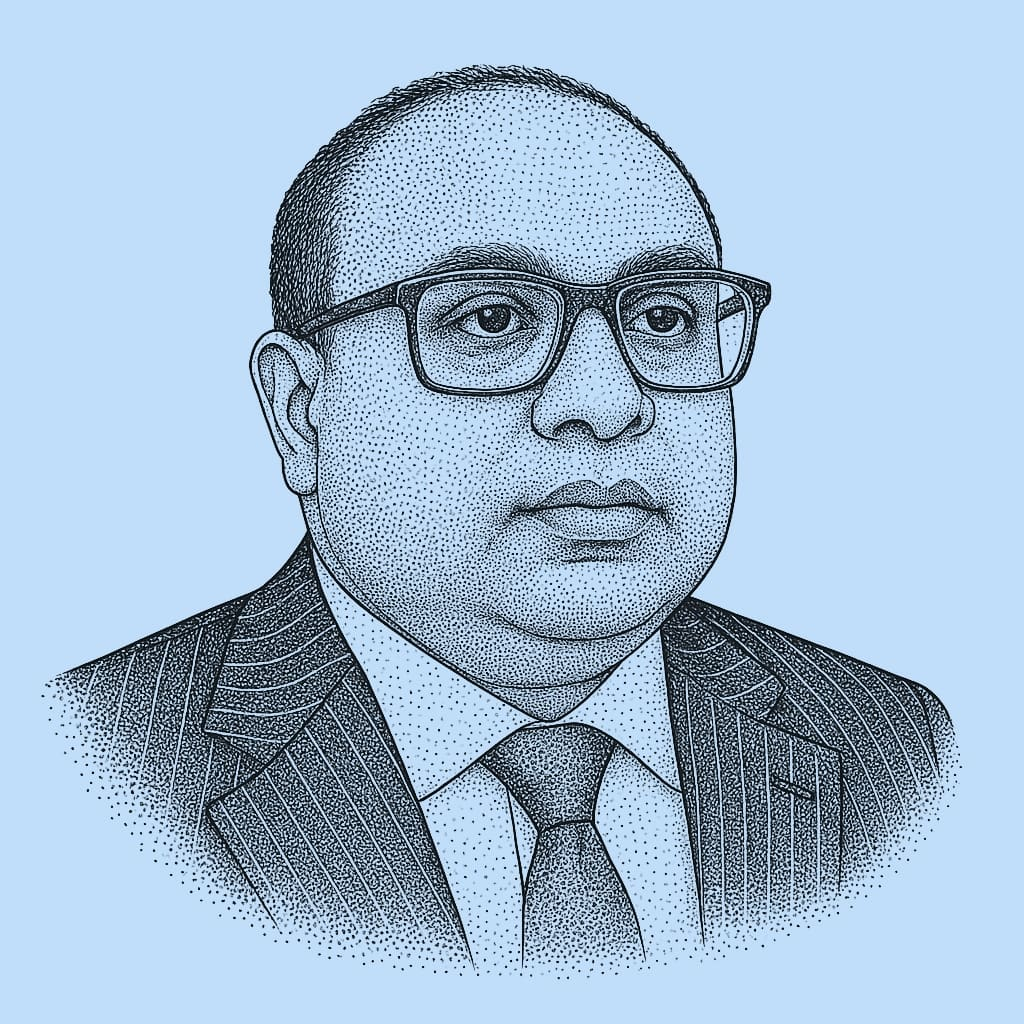
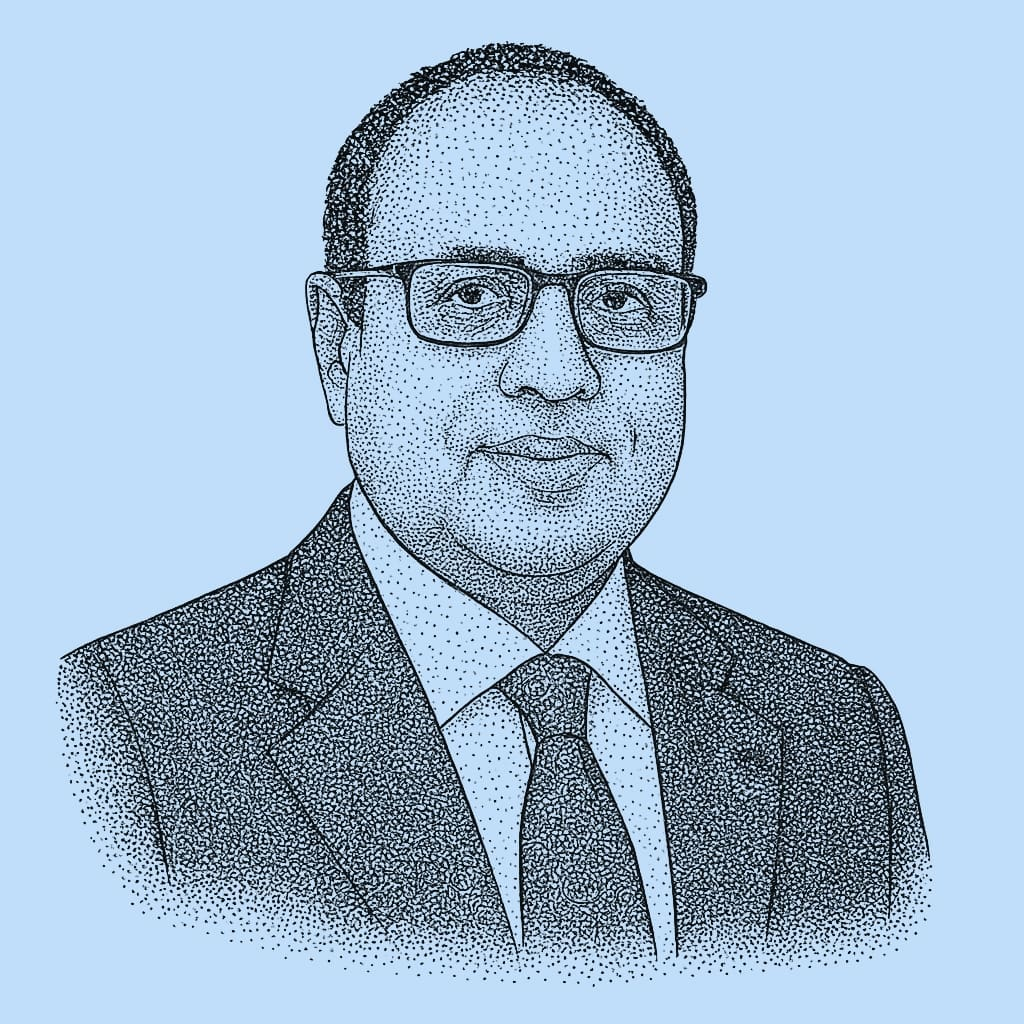
feat: add ai page #73

diff --git a/apps/web/src/ui/ai/intro.tsx b/apps/web/src/ui/ai/intro.tsx
@@ -1,78 +1,105 @@
 import { Icons } from '@pbn/ui/icons';
 
-export default function Intro() {
+export function Intro() {
   return (
     <div id="intro" className="px-6 py-32 lg:px-8">
       <div className="mx-auto max-w-3xl text-base/7 text-muted-foreground">
-        <p className="text-base/7 font-semibold text-alternate">For Bank Boards & CEOs</p>
         <h2 className="mt-2 text-pretty text-4xl font-semibold tracking-tight text-foreground sm:text-5xl">
-          Pakistan&apos;s Banking Leaders Face the AI Test
+          Convert AI spends into board-ready returns within 18 months
         </h2>
-        <p className="mt-6 text-xl/8">
-          AI will decide which banks lead and which follow. Executive AI Stewardship helps boards
-          turn regulation, compliance, and transformation pressure into measurable ROI before the
-          window closes.
+        <p className="mt-6 text-xl/8 text-muted-foreground">
+          You approved AI budgets. Hired consultants. Launched pilots. Your board still asks when
+          they will see returns. The State Bank of Pakistan demands governance frameworks you
+          continue to work on. Emerging competitors report AI wins while your initiatives stall in
+          proof-of-concept. The gap between spending and results widens each quarter.
         </p>
 
-        <div className="mt-10 max-w-2xl text-gray-600 dark:text-gray-400">
+        <div className="mt-10 max-w-2xl">
           <p>
-            AI will decide which banks lead and which follow. Executive AI Stewardship helps boards
-            turn regulation, compliance, and transformation pressure into measurable ROI before the
-            window closes.
+            Most banks fail at AI because they treat it as a technology problem. It is an execution
+            problem. Our principals have led banking transformations at global scale. We&apos;ve
+            driven technology enablement at organizations serving billions of users worldwide. We
+            know what boards demand and we know how to deliver it.
+          </p>
+          <p className="mt-8">
+            The difference between banks that generate measurable AI returns and banks that waste
+            millions comes down to systematic capability building. Each stage must deliver
+            documented ROI. Each investment must prove itself before the next. Each outcome must be
+            something you can report to your board with specific numbers.
           </p>
 
-          <ul role="list" className="mt-8 max-w-2xl space-y-8 text-gray-600 dark:text-gray-400">
+          <h2 className="mt-16 text-pretty text-3xl font-semibold tracking-tight text-foreground">
+            Four clear stages with compounding returns
+          </h2>
+
+          <ul role="list" className="mt-8 max-w-2xl space-y-8">
             <li className="flex gap-x-3">
-              <Icons.Check
-                aria-hidden="true"
-                className="mt-1 size-5 flex-none text-indigo-600 dark:text-indigo-400"
-              />
+              <Icons.Check aria-hidden="true" className="mt-1 size-5 flex-none text-alternate" />
               <span>
-                <strong className="font-semibold text-gray-900 dark:text-white">Awareness.</strong>{' '}
-                Board-level alignment on AI’s role in regulation, profitability, and risk control.
-              </span>
-            </li>
-            <li className="flex gap-x-3">
-              <Icons.Check
-                aria-hidden="true"
-                className="mt-1 size-5 flex-none text-indigo-600 dark:text-indigo-400"
-              />
-              <span>
-                <strong className="font-semibold text-gray-900 dark:text-white">Readiness.</strong>{' '}
-                Assess data, culture, and leadership capacity for AI adoption.
-              </span>
-            </li>
-            <li className="flex gap-x-3">
-              <Icons.Check
-                aria-hidden="true"
-                className="mt-1 size-5 flex-none text-indigo-600 dark:text-indigo-400"
-              />
-              <span>
-                <strong className="font-semibold text-gray-900 dark:text-white">Enablement.</strong>{' '}
-                Build execution muscle—teams, processes, and governance that deliver at scale.
-              </span>
-            </li>
-            <li className="flex gap-x-3">
-              <Icons.Check
-                aria-hidden="true"
-                className="mt-1 size-5 flex-none text-indigo-600 dark:text-indigo-400"
-              />
-              <span>
-                <strong className="font-semibold text-gray-900 dark:text-white">
-                  Transformation.
+                <strong className="font-semibold text-foreground">
+                  Awareness delivers immediate productivity.
                 </strong>{' '}
-                Embed AI into the bank’s operating system for lasting performance advantage.
+                Enterprise AI literacy lifts global performance from day one. Your talented people
+                work 50 percent faster. Your underperformers become more visible. You prove AI
+                generates value before investing millions in infrastructure. Minimal investment,
+                immediate and measurable returns.
+              </span>
+            </li>
+            <li className="flex gap-x-3">
+              <Icons.Check aria-hidden="true" className="mt-1 size-5 flex-none text-alternate" />
+              <span>
+                <strong className="font-semibold text-foreground">
+                  Readiness prevents wasted investment.
+                </strong>{' '}
+                Audit your data, governance, processes, systems, and culture before spending
+                heavily. Identify quick wins that deliver three to five times ROI within months.
+                Build compliance frameworks for the enterprise that satisfy regulators. Stop
+                throwing money at pilots that never scale.
+              </span>
+            </li>
+            <li className="flex gap-x-3">
+              <Icons.Check aria-hidden="true" className="mt-1 size-5 flex-none text-alternate" />
+              <span>
+                <strong className="font-semibold text-foreground">
+                  Enablement cuts costs and defends share.
+                </strong>{' '}
+                Deploy frontier AI models that enable customer service, reduce fraud losses, and
+                accelerate credit decisions. Each system generates documented savings. Each
+                implementation funds the next. Your board sees financial statement line items, not
+                promises.
+              </span>
+            </li>
+            <li className="flex gap-x-3">
+              <Icons.Check aria-hidden="true" className="mt-1 size-5 flex-none text-alternate" />
+              <span>
+                <strong className="font-semibold text-foreground">
+                  Transformation creates competitive distance.
+                </strong>{' '}
+                Rewire operations with AI that deliver billions in economic value over just a few
+                years. Build advantages competitors cannot replicate. Prepare for the next wave of
+                AI innovation so your bank leads the market instead of following it.
               </span>
             </li>
           </ul>
 
-          <h2 className="mt-16 text-pretty text-3xl font-semibold tracking-tight text-gray-900 dark:text-white">
-            The 30-Second Pitch
+          <h2 className="mt-16 text-pretty text-3xl font-semibold tracking-tight text-foreground">
+            Concrete, capitalized returns
           </h2>
           <p className="mt-6">
-            Pakistani banks have capital, vision, and urgency—but lack institutional execution. AI
-            Stewardship gives boards a structured path to lead responsibly, comply early, and
-            outperform peers on ROI before regulation and competition close the window.
+            Most consultants sell you studies. We deliver returns. Every investment must generate
+            three to ten time returns within 18 months or we have failed. We stay through
+            implementation because reports do not create value. Working systems do.
+          </p>
+          <p className="mt-6">
+            We measure results rigorously. We track specific cost reductions, productivity gains,
+            and revenue improvements. We build capability inside your institution so the returns
+            compound after we leave. We make certain you can walk into your next board meeting with
+            numbers that prove AI works.
+          </p>
+          <p className="mt-6">
+            The banks moving now will report measurable AI returns within 18 months. Those that wait
+            will explain to their boards why they fell behind. The window closes each quarter your
+            competitors move faster.
           </p>
         </div>
       </div>

diff --git a/apps/web/src/ui/ai/team.tsx b/apps/web/src/ui/ai/team.tsx
@@ -1,29 +1,32 @@
+import Image from 'next/image';
+
 const people = [
   {
     name: 'Rehan Shaikh',
     role: 'CEO',
     imageSrc: '/rehan.jpg',
-    bio: 'Ultricies massa malesuada viverra cras lobortis. Tempor orci hac ligula dapibus mauris sit ut eu. Eget turpis urna maecenas cras. Nisl dictum.',
+    bio: 'Rehan led HBL Asset Management as CEO, building the institution from inception with 19 years of experience in mutual funds. Before that, he spent a decade at State Street Corporation in Boston, managing operations for institutional clients and overseeing the migration of over $111 billion in assets. He served as Chairman of the Mutual Fund Association of Pakistan.',
   },
   {
     name: 'Sam Shah',
     role: 'Principal Consultant',
-    imageSrc: 'sam.jpg',
-    bio: 'Turpis lectus et amet elementum. Mi duis integer sed in vitae consequat. Nam vitae, in felis mi dui tempus. Porta at turpis eu odio. Et, sed duis in blandit bibendum accumsan. Purus viverra facilisi suspendisse quis est.',
+    imageSrc: '/sam.jpg',
+    bio: 'Sam spent 13 years at a top management consulting firm as a Senior Partner. Then he lead eBusiness at the largest energy conglomerate in the Far East. In 2008, Sam joined the fastest growing social network, where he led the expansion of worldwide operations for 8 years as lead consultant. He has degrees from UCLA, Stanford and Tsinghua.',
   },
 ];
 
-export default function Team() {
+export function Team() {
   return (
-    <div className="bg-white py-24 dark:bg-gray-900 md:py-32">
+    <div className="rounded-3xl bg-secondary ring-1 ring-foreground/10 md:py-32">
       <div className="mx-auto grid max-w-7xl grid-cols-1 gap-20 px-6 lg:px-8 xl:grid-cols-5">
         <div className="max-w-2xl xl:col-span-2">
-          <h2 className="text-pretty text-4xl font-semibold tracking-tight text-gray-900 dark:text-white sm:text-5xl">
-            About the team
+          <h2 className="text-pretty text-4xl font-semibold tracking-tight text-foreground sm:text-5xl">
+            Your trusted advisors
           </h2>
-          <p className="mt-6 text-lg/8 text-gray-600 dark:text-gray-400">
-            We’re a dynamic group of individuals who are passionate about what we do and dedicated
-            to delivering the best results for our clients.
+          <p className="mt-6 text-lg/8 text-muted-foreground">
+            We have guided leaders through transformations at institutions operating across
+            continents and serving billions. CEOs trust us because we have sat in their chair, built
+            what they need to build, and delivered the returns they must report.
           </p>
         </div>
         <ul role="list" className="divide-y divide-gray-200 dark:divide-gray-800 xl:col-span-3">
@@ -32,17 +35,19 @@ export default function Team() {
               key={person.name}
               className="flex flex-col gap-10 py-12 first:pt-0 last:pb-0 sm:flex-row"
             >
-              <img
+              <Image
                 alt=""
+                width={400}
+                height={400}
                 src={person.imageSrc}
                 className="aspect-4/5 w-52 flex-none rounded-2xl object-cover outline-1 -outline-offset-1 outline-black/5 dark:outline-white/10"
               />
               <div className="max-w-xl flex-auto">
-                <h3 className="text-lg/8 font-semibold tracking-tight text-gray-900 dark:text-white">
+                <h3 className="text-lg/8 font-semibold tracking-tight text-foreground">
                   {person.name}
                 </h3>
-                <p className="text-base/7 text-gray-600 dark:text-gray-400">{person.role}</p>
-                <p className="mt-6 text-base/7 text-gray-600 dark:text-gray-400">{person.bio}</p>
+                <p className="text-base/7 text-muted-foreground">{person.role}</p>
+                <p className="mt-6 text-base/7 text-muted-foreground">{person.bio}</p>
               </div>
             </li>
           ))}

diff --git a/apps/web/src/ui/ai/hero.tsx b/apps/web/src/ui/ai/hero.tsx
@@ -35,17 +35,16 @@ export function Hero() {
           strokeWidth={0}
         />
       </svg>
-      <div className="mx-auto max-w-2xl px-6 py-32 sm:py-48 md:max-w-6xl md:px-8 lg:py-56">
+      <div className="mx-auto max-w-2xl px-6 py-32 sm:py-48 md:max-w-5xl md:px-8 lg:py-56">
         <div className="text-center">
-          <h1 className="text-secondary-foreground sm:text-balance">
+          <h1 className="text-foreground sm:text-balance">
             <span className="block text-5xl font-semibold lg:text-6xl">
-              How bank leaders convert AI exposure into balance-sheet performance
+              How banking leaders turn AI awareness into measurable profit
             </span>
           </h1>
-          <p className="mx-auto mt-6 max-w-3xl text-lg leading-8 text-muted-foreground sm:text-balance lg:text-2xl">
-            Our AI-stewardship converts AI ambition into capital efficiency, risk control, and
-            growth. From awareness to transformation, we align AI programs with board-level returns,
-            not experiments.
+          <p className="mx-auto mt-6 max-w-3xl text-lg leading-8 text-muted-foreground sm:text-balance lg:text-xl">
+            We enable systematic capability building from literacy to transformation. Each stage
+            delivering exponential returns. Each investment pays for the next.
           </p>
           <div className="mt-10 flex items-center justify-center gap-x-6">
             <Link

diff --git a/apps/web/src/ui/ai/book.tsx b/apps/web/src/ui/ai/book.tsx
@@ -1,0 +1,33 @@
+'use client';
+
+import Cal from '@calcom/embed-react';
+import { useTheme } from 'next-themes';
+
+export function Book() {
+  const { theme } = useTheme();
+  return (
+    <>
+      <div className="py-24 sm:py-32">
+        <div className="mx-auto max-w-2xl text-center">
+          <h2 className="text-4xl font-semibold tracking-tight text-foreground sm:text-5xl">
+            Start with a Conversation
+          </h2>
+          <p className="mt-8 text-pretty text-lg font-medium text-muted-foreground sm:text-balance sm:text-xl/8">
+            Schedule time with a principal. We&apos;ll discuss your board&apos;s expectations, your
+            current AI initiatives, and whether we can deliver the returns you need.
+          </p>
+        </div>
+        <div className="container flex flex-col justify-start md:justify-center md:pt-0">
+          <div className="h-[calc(100vh-6rem)] overflow-y-auto px-4 py-16 md:h-[600px] md:overflow-y-visible md:px-0">
+            <Cal
+              calLink="pale-blue-nukta/30min"
+              config={{
+                theme: theme as 'light' | 'dark',
+              }}
+            />
+          </div>
+        </div>
+      </div>
+    </>
+  );
+}

diff --git a/apps/web/src/app/ai/page.tsx b/apps/web/src/app/ai/page.tsx
@@ -1,8 +1,8 @@
+import { Book } from '#/ui/ai/book';
 import { Hero } from '#/ui/ai/hero';
-import Intro from '#/ui/ai/intro';
-import Team from '#/ui/ai/team';
-import Cta from '#/ui/home/cta';
-import Footer from '#/ui/layout/footer';
+import { Intro } from '#/ui/ai/intro';
+import { Team } from '#/ui/ai/team';
+import { Footer } from '#/ui/layout/footer';
 import { PbdContainer } from '#/ui/layout/pbd-container';
 
 export default function AiPage() {
@@ -12,9 +12,15 @@ export default function AiPage() {
         <Hero />
         <Intro />
         <Team />
-        <Cta />
+        <Book />
       </PbdContainer>
       <Footer />
     </>
   );
 }
+
+export const metadata = {
+  title: 'AI-Transformation for Pakistani Banks',
+  description:
+    'We help Pakistani banking leaders turn AI awareness into measurable profit through systematic capability building from literacy to transformation.',
+};

diff --git a/apps/web/src/app/page.tsx b/apps/web/src/app/page.tsx
@@ -1,9 +1,9 @@
-import Cta from '#/ui/home/cta';
+import { Cta } from '#/ui/home/cta';
 import { Hero } from '#/ui/home/hero';
 import { Quote } from '#/ui/home/quote';
 import { Services } from '#/ui/home/services';
 import { Why } from '#/ui/home/why';
-import Footer from '#/ui/layout/footer';
+import { Footer } from '#/ui/layout/footer';
 import { PbdContainer } from '#/ui/layout/pbd-container';
 
 export default function Home() {

diff --git a/apps/web/src/ui/layout/footer.tsx b/apps/web/src/ui/layout/footer.tsx
@@ -22,7 +22,7 @@ const navigation: { main: NavigationItem[] } = {
   ],
 };
 
-export default function Footer() {
+export function Footer() {
   return (
     <footer className="mt-16 w-full border-t bg-[#0A070D]">
       <div className="mx-auto max-w-7xl overflow-hidden px-6 py-20 sm:py-24 lg:px-8">

diff --git a/apps/web/src/ui/home/cta.tsx b/apps/web/src/ui/home/cta.tsx
@@ -3,7 +3,7 @@ import Link from 'next/link';
 import { cn } from '@pbn/ui';
 import { buttonVariants } from '@pbn/ui/button';
 
-export default function Cta() {
+export function Cta() {
   return (
     <section>
       <div className="mx-auto max-w-7xl py-24 sm:px-6 sm:py-32 lg:px-8">
